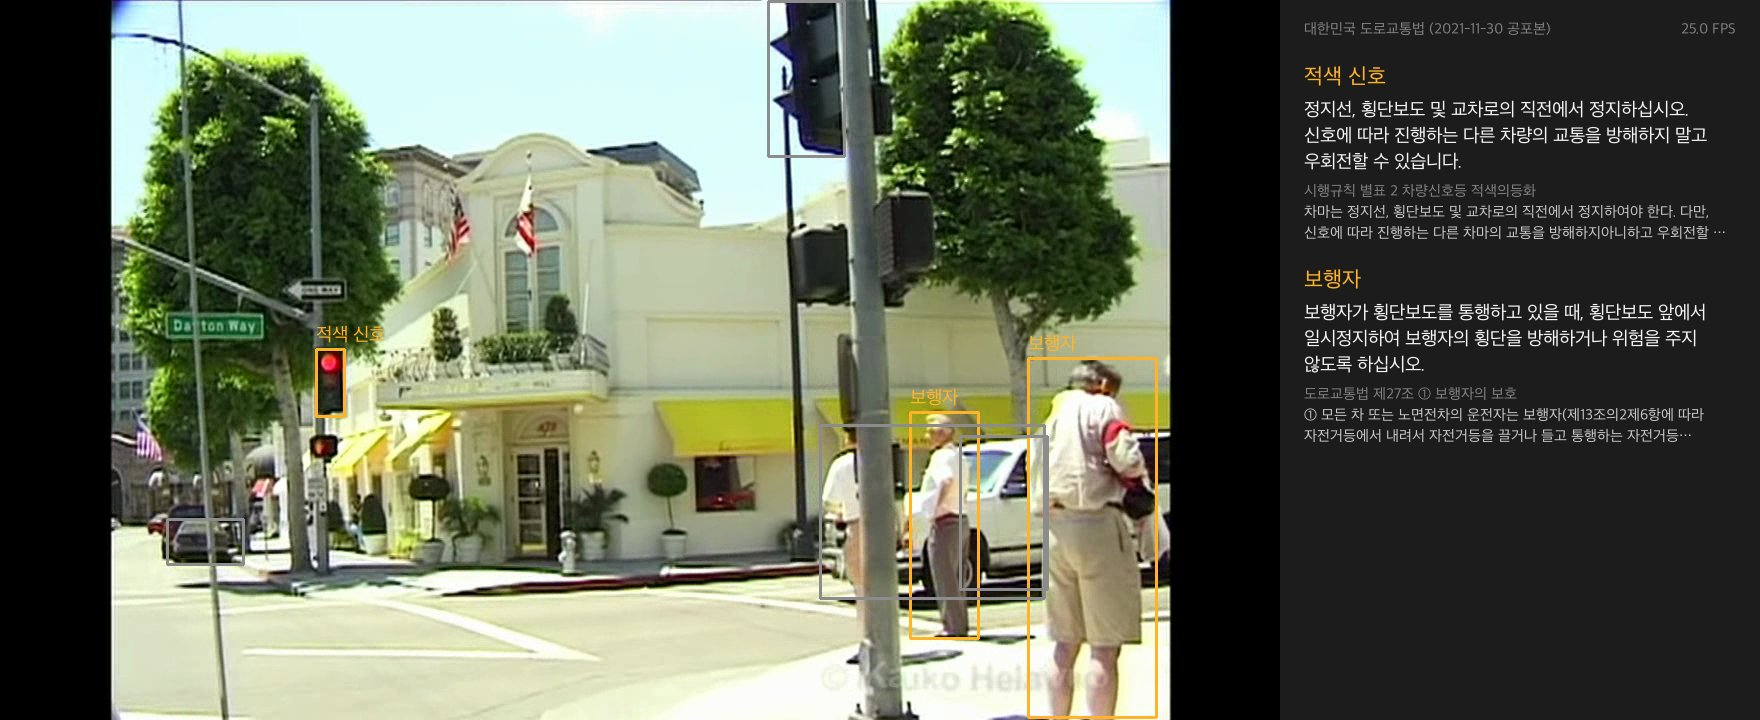
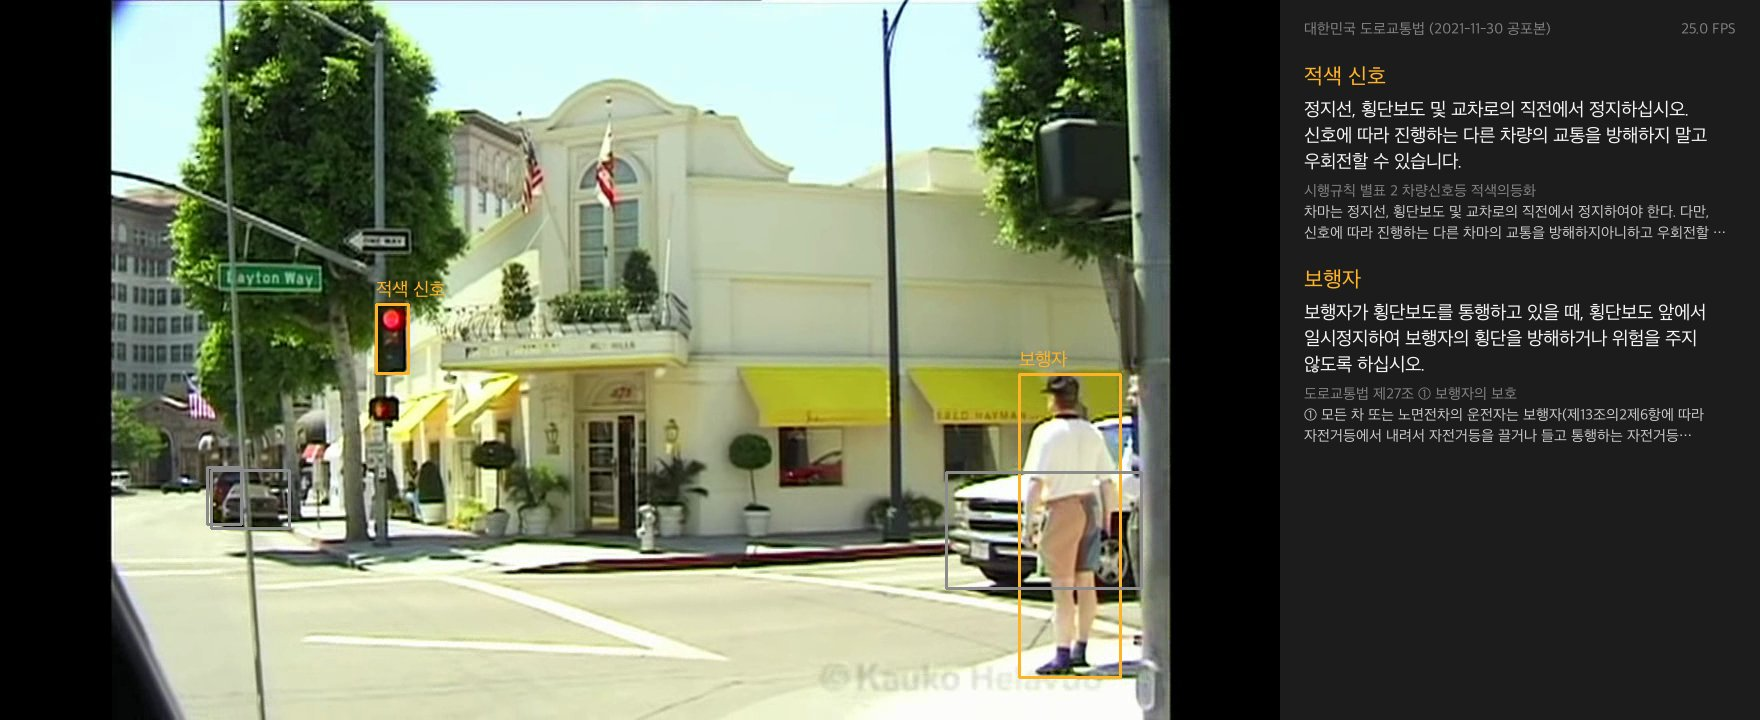
docs: Gemma 비전 맥락 설명과 키프레임 적중률 비교 추가

diff --git a/Project03/README.md b/Project03/README.md
@@ -1,6 +1,6 @@
 # Project03: 주행 영상 기반 도로교통법 검색 HUD
 
-주행 영상에서 YOLO11n으로 차량, 보행자, 신호등을 찾습니다. 찾은 객체를 "적색 신호", "앞차" 같은 장면 상태로 바꿉니다. 장면 상태마다 도로교통법 코퍼스를 BM25로 검색하고, 검색된 조문을 근거로 로컬 Gemma가 한국어 주행 지시문을 만듭니다. 화면 오른쪽에 지시문과 근거 조문을 함께 보여 줍니다.
+주행 영상에서 두 채널로 장면 맥락을 읽습니다. YOLO11n은 매 프레임 차량, 보행자, 신호등을 찾아 "적색 신호", "앞차" 같은 장면 상태로 바꿉니다. 로컬 Gemma 4 비전은 별도 스레드에서 몇 초마다 한 장을 보고 교차로, 횡단보도, 표지판 글자를 읽습니다. 장면 상태와 표지판 글자로 도로교통법 코퍼스를 BM25로 검색하고, 검색된 조문을 근거로 Gemma가 한국어 주행 지시문을 만듭니다. 화면 오른쪽에 지시문과 근거 조문을 함께 보여 줍니다.
 
 모델이 학습한 지식 대신 실제 법령 문서를 근거로 판단을 보여 주는 Retrieval-Augmented 구조입니다. 법령이 개정되거나 다른 나라에서 달리면 모델을 다시 학습하지 않습니다. 코퍼스 파일만 바꾸면 같은 영상에서 그 판, 그 나라의 조문이 나옵니다. 코퍼스는 한국 도로교통법 현행판, 2021년판, 캘리포니아 차량법(California Vehicle Code) 세 개입니다.
 
@@ -18,9 +18,9 @@
 |---|---|---|
 | ![현행 코퍼스의 비벌리힐스 장면](docs/beverly-current.jpg) | ![2021년 코퍼스의 비벌리힐스 장면](docs/beverly-2021.jpg) | ![캘리포니아 코퍼스의 비벌리힐스 장면](docs/beverly-california.jpg) |
 
-보행자 패널은 현행 제27조 ①("통행하려고 하는 때"를 포함), 2021년 제27조 ①, 캘리포니아 차량법 21950조 (a)를 보여 줍니다. 적색 신호 패널은 캘리포니아에서 21453조 (b)("after stopping … may turn right")를 보여 줍니다.
+보행자 패널은 현행 제27조 ①("통행하려고 하는 때"를 포함), 2021년 제27조 ①, 캘리포니아 차량법 21950조 (a)를 보여 줍니다. 적색 신호 패널은 캘리포니아에서 21453조 (b)("after stopping … may turn right")를 보여 줍니다. 하늘색 "교차로"는 Gemma 비전이 두 번 연속 교차로로 판단해 더한 상태입니다. 2021년 코퍼스 화면은 이 시점에 아직 두 번째 판단이 끝나지 않아 교차로가 없습니다.
 
-그림 다섯 장은 원주 시연 영상 25.5초(원본 111.5초)와 비벌리힐스 시연 영상 46초(원본 486초) 프레임을 저장한 것입니다. 화면 오른쪽 위 FPS 값은 저장용 스크립트가 넣은 영상 FPS이며 처리 속도 측정값이 아닙니다.
+그림 다섯 장은 원주 시연 영상 25.5초(원본 111.5초)와 비벌리힐스 시연 영상 47초(원본 487초) 프레임을 저장한 것입니다. 화면 오른쪽 위 FPS 값은 저장용 스크립트가 넣은 영상 FPS이며 처리 속도 측정값이 아닙니다.
 
 ## 파일 구조
 
@@ -30,13 +30,14 @@ Project03/
 ├── detect.py            YOLO 탐지 결과를 장면 상태로 바꿈, 신호등 색 판정(HSV)
 ├── retrieve.py          BM25 검색기와 장면 상태별 검색 문장
 ├── hud.py               탐지 박스, 지시문, 근거 조문 패널 그리기
-├── instruct.py          검색된 조문으로 로컬 Gemma가 주행 지시문 생성
+├── gemma.py             로컬 Gemma: 주행 지시문, 장면 맥락 판단, 표지판 조항 검증, 맥락 스레드
 ├── build_corpus.py      코퍼스 JSON 세 개 생성 (Mac에서 한 번 실행)
 ├── corpus-current.json  현행 도로교통법(항 단위)과 시행규칙 별표 2(신호 종류 단위)
 ├── corpus-2021.json     2022년 1월 개정 직전 공포본으로 만든 같은 구성의 코퍼스
 ├── corpus-california.json  캘리포니아 차량법 제11편 Rules of the Road(항 단위, 영어)
 ├── tests/
-│   └── test_retrieve.py 장면 상태별 정답 조문 검색 평가
+│   ├── test_retrieve.py 장면 상태별 정답 조문 검색, 토큰화
+│   └── test_gemma.py    Gemma 답 줄 읽기
 ├── docs/                README 그림
 ├── data/                캘리포니아 의회 일괄 파일 (git에 올리지 않음)
 └── videos/              주행 영상 (git에 올리지 않음)
@@ -59,10 +60,16 @@ Project03/
 | torch | 2.8.0 | 2.14.1 |
 | llama-cpp-python | 05 노트북 설치본(CUDA 빌드) | 0.3.36(Metal 빌드) |
 
-- Gemma 모델은 05 노트북과 같은 `../src/models/Gemma4/google_gemma-4-E2B-it-Q4_K_M.gguf`(3.46GB, Apache 2.0)를 씁니다. 레포에는 넣지 않습니다. 05 노트북의 `hf_hub_download` 셀로 받거나 아래 명령으로 받습니다.
+- Gemma 모델은 05 노트북과 같은 두 파일을 씁니다. 레포에는 넣지 않습니다. 05 노트북의 `hf_hub_download` 셀로 받거나 아래 명령으로 받습니다.
+  - `../src/models/Gemma4/google_gemma-4-E2B-it-Q4_K_M.gguf`(3.46GB, Apache 2.0)
+  - `../src/models/Gemma4/mmproj-google_gemma-4-E2B-it-f16.gguf`(0.99GB, 비전 모듈)
 
 ```bash
 mkdir -p ../src/models/Gemma4 && curl -L -o ../src/models/Gemma4/google_gemma-4-E2B-it-Q4_K_M.gguf "https://huggingface.co/bartowski/google_gemma-4-E2B-it-GGUF/resolve/main/google_gemma-4-E2B-it-Q4_K_M.gguf"
+```
+
+```bash
+curl -L -o ../src/models/Gemma4/mmproj-google_gemma-4-E2B-it-f16.gguf "https://huggingface.co/bartowski/google_gemma-4-E2B-it-GGUF/resolve/main/mmproj-google_gemma-4-E2B-it-f16.gguf"
 ```
 
 - 한글 글꼴은 Noto CJK(`fonts-noto-cjk`), 나눔고딕, Apple SD Gothic Neo 중 설치된 것을 씁니다.
@@ -109,21 +116,30 @@ Jetson에서는 04 노트북에서 만든 TensorRT 엔진을 넘깁니다.
 python main.py videos/wonju-demo.mp4 --model ../src/models/YOLO/yolo11n_fp16.engine
 ```
 
-`q`를 누르면 종료합니다.
+`q`를 누르면 종료합니다. 비전 라이브러리(`libmtmd`)가 이미지 처리마다 디버그 로그를 표준 오류로 찍습니다. 콘솔을 깨끗하게 보려면 명령 끝에 `2>/dev/null`을 붙입니다.
 
 ### 화면
 
 - 왼쪽: 영상과 탐지 박스. 장면 상태를 만든 박스는 주황색 박스와 상태 이름으로, 나머지 탐지는 회색 박스로 그립니다.
 - 오른쪽 패널 위: 코퍼스 이름과 처리 FPS
 - 오른쪽 패널: 장면 상태마다 상태 이름, Gemma 지시문(최대 3줄), 근거 조문 번호와 제목, 원문 앞부분(최대 2줄). 줄은 공백 위치에서 바꿉니다.
+- 상태 이름 색: 주황색은 YOLO11n에서 온 상태, 하늘색은 Gemma 비전에서 온 상태(교차로, 횡단보도, 표지판)입니다.
+- 패널은 같은 조항을 한 번만 보여 주고, `queries` 순서로 최대 3개까지 보여 줍니다.
 
 ### 처리 과정
 
 시작할 때 한 번:
 
-1. 코퍼스의 상태 7개마다 검색 문장으로 BM25 1위 항목을 찾습니다. 검색 문장이 상태마다 하나로 정해져 있어 결과도 상태마다 하나입니다.
-2. Gemma(`llama-cpp-python`, GPU)가 항목마다 지시문을 만들고 콘솔에 출력합니다. Mac에서 7개에 4.7~5.6초가 걸렸습니다.
-3. 지시문을 다 만들면 Gemma를 메모리에서 해제한 뒤 YOLO11n을 불러옵니다. Jetson 8GB 메모리에 두 모델을 함께 올리지 않기 위해서입니다.
+1. 비전 모듈을 붙인 Gemma(`llama-cpp-python`, GPU)를 불러옵니다. 이미지 토큰은 560개로 고정합니다.
+2. 코퍼스의 상태 9개마다 검색 문장으로 BM25 1위 항목을 찾고, Gemma가 지시문을 만들어 콘솔에 출력합니다. Mac에서 9개에 약 4.4초가 걸렸습니다.
+3. 맥락 스레드를 시작하고 YOLO11n을 불러옵니다. Gemma는 영상 내내 메모리에 남습니다.
+
+맥락 스레드(Gemma 비전, 반복):
+
+1. 메인 루프가 넘긴 최신 프레임을 Gemma 비전에 넣어 교차로·횡단보도의 예/아니오와 표지판 글자를 받습니다. Mac에서 한 장에 약 1.1~2.2초입니다.
+2. 직전 판단과 이번 판단이 같은 항목만 채택합니다.
+3. 새 표지판 글자가 채택되면, 그 글자로 BM25 상위 3개를 찾고 Gemma가 관련 조항 번호 하나 또는 "없음"을 고릅니다. 고른 조항이 있으면 지시문을 만듭니다. 같은 글자는 다시 묻지 않습니다.
+4. 결과를 새 사전으로 만들어 한 번에 넘깁니다.
 
 프레임마다:
 
@@ -134,7 +150,7 @@ python main.py videos/wonju-demo.mp4 --model ../src/models/YOLO/yolo11n_fp16.eng
    - 승용차, 트럭: 화면의 3% 이상이고 화면 가운데 3분의 1에 있을 때 앞차가 됩니다.
    - 화면 아래 20%에 중심이 있는 박스는 버립니다. 이 영역에는 보닛과 유리창 스티커가 있어 정지 표지 오탐이 생깁니다.
 3. 상태마다 5프레임 연속 탐지되면 확정하고, 확정이 끊긴 뒤에도 2초 동안 패널에 남깁니다.
-4. 화면 상태에 해당하는, 미리 만든 지시문과 근거 항목을 패널에 그립니다. 루프 안에서는 검색과 Gemma 호출을 하지 않습니다.
+4. YOLO 상태와 맥락 스레드가 마지막으로 채택한 상태를 합쳐 패널에 그립니다. 메인 루프는 Gemma를 직접 부르지 않습니다.
 5. 처리가 영상보다 빠르면 남는 시간만큼 기다려 원래 속도로 재생합니다.
 
 ### 테스트와 평가
@@ -143,9 +159,11 @@ python main.py videos/wonju-demo.mp4 --model ../src/models/YOLO/yolo11n_fp16.eng
 python -m unittest discover -s tests -t .
 ```
 
-- 세 코퍼스 모두에서 장면 상태 7개(적색·황색·녹색 신호, 보행자, 자전거, 앞차, 정지 표지)의 BM25 1위가 정답 항목과 같은지 확인합니다. 캘리포니아 정답은 21453(b), 21452(a), 21451(a), 21950(a), 21760(c), 21703, 22450(a)입니다.
+- 세 코퍼스 모두에서 장면 상태 9개(적색·황색·녹색 신호, 보행자, 횡단보도, 교차로, 자전거, 앞차, 정지 표지)의 BM25 1위가 정답 항목과 같은지 확인합니다. 캘리포니아 정답은 21453(b), 21452(a), 21451(a), 21950(a), 21950(c), 21800(a), 21760(c), 21703, 22450(a)입니다.
+- 토큰화가 영어 낱말을 낱말 그대로, 한국어를 바이그램으로 나누는지 확인합니다. Gemma의 "항목: 값" 답을 사전으로 읽는지 확인합니다.
 - 적색 신호(별표 2)와 보행자(제27조 ①)의 1위 본문이 두 판에서 다른지 확인합니다.
-- 2026-11-02 Mac에서 2개 테스트가 모두 통과했습니다. Mac(Apple Silicon)의 프레임당 처리 시간은 지시문 패널을 넣은 뒤 약 26ms입니다.
+- 2026-11-02 Mac에서 5개 테스트가 모두 통과했습니다. 맥락 스레드가 도는 동안 메인 루프의 프레임당 처리 시간은 평균 29~34ms였습니다. 첫 프레임은 YOLO 준비로 약 1.9초가 걸립니다.
+- 스레드가 Gemma 비전을 돌리는 동안 메인 스레드의 YOLO 처리 시간은 평균 18.5ms, 최대 43.8ms였습니다. `llama-cpp-python`이 추론 중 GIL을 놓으므로 영상 루프가 멈추지 않습니다.
 - 비벌리힐스 시연 영상에서 정지 표지(2초), 앞차, 보행자(12.1초, 44.3초), 황색 신호(33.8초), 적색 신호(44.6초), 녹색 신호(49.3초)가 패널에 나왔습니다.
 
 ## 로컬 Gemma 주행 지시문
@@ -189,7 +207,37 @@ python -m unittest discover -s tests -t .
 | 캘리포니아 | 앞차 | 앞차를 합리적이고 신중하게, 해당 차량의 속도와 주변 교통 상황, 도로 상태를 고려하여 안전거리를 유지하십시오. | 일치 | |
 | 캘리포니아 | 정지 표지 | 정지 표지 앞에 정지선이 있으면 그 선에 멈추십시오. 정지선이 없으면 교차로 진입 전 가까운 쪽 횡단보도 앞에 멈추십시오. | 일치 | |
 
-합계: 일치 14개, 일부 누락 6개, 불일치 1개. 한국어 조항은 14개 중 일치 11개, 영어 조항은 7개 중 일치 3개입니다. 개정 전후 차이(적색 신호의 우회전 전 정지, 보행자의 "통행하려고 하는 때")는 두 판의 지시문에 모두 맞게 드러났습니다. 불일치 1개는 영어 수치 조건(three feet)을 한국어로 옮기며 부정어를 잃은 경우입니다. 그래서 지시문 아래에 원문을 항상 함께 보여 줍니다.
+| 현행 | 횡단보도 | 횡단보도 앞에서 일시정지하여 보행자가 안전하게 횡단할 수 있도록 하십시오. | 일부 누락 | "통행하고 있거나 통행하려고 하는 때"라는 조건이 빠져 2021년판 지시문과 같아짐 |
+| 현행 | 교차로 | 우회전을 하려는 경우, 미리 도로의 우측 가장자리를 서행하면서 우회전하십시오. 우회전하는 차의 운전자는 신호에 따라 정지하거나 진행하는 보행자 또는 자전거 등에 주의해야 합니다. | 일치 | |
+| 2021년 | 횡단보도 | 현행과 같음 | 일부 누락 | "통행하고 있을 때"라는 조건이 빠짐 |
+| 2021년 | 교차로 | 현행과 같음 | 일치 | |
+| 캘리포니아 | 횡단보도 | 횡단보도에 접근하는 보행자를 위해 모든 주의를 기울이고 차량 속도를 줄이거나 필요한 기타 조치를 취하여 보행자의 안전을 확보하십시오. | 불일치 | 원문의 조건은 "횡단보도 안의 보행자에게 차가 다가갈 때"인데 "횡단보도에 다가가는 보행자"로 바뀜 |
+| 캘리포니아 | 교차로 | 다른 고속도로에서 교차로로 진입한 차량에 양보하십시오. | 불일치 | 캘리포니아 법의 "highway"는 공공 도로 전체를 뜻하는데 "고속도로"로 옮김 |
+
+합계(4단계에서 상태 2개를 더한 27개): 일치 16개, 일부 누락 8개, 불일치 3개. 한국어 조항은 18개 중 일치 13개, 영어 조항은 9개 중 일치 3개입니다. 개정 전후 차이(적색 신호의 우회전 전 정지, 보행자의 "통행하려고 하는 때")는 두 판의 지시문에 모두 맞게 드러났습니다. 불일치 1개는 영어 수치 조건(three feet)을 한국어로 옮기며 부정어를 잃은 경우입니다. 그래서 지시문 아래에 원문을 항상 함께 보여 줍니다.
+
+## 맥락 채널 비교 (키프레임 13장)
+
+YOLO 상태만 쓰는 방식(3단계까지)은 검색 문장이 상태마다 고정이라 한 코퍼스에서 조문이 7개만 나왔습니다. 4단계에서 Gemma 비전 맥락을 더한 효과를 원주 7장, 비벌리힐스 6장의 키프레임으로 비교했습니다. 정답 조문은 사람이 화면을 보고 정했습니다. 화면만으로 정답을 정하기 어려운 2장(bev-240 좁은 사유 도로, bev-474 꺼진 신호등과 도로 이름 표지)은 빼고 11장으로 셉니다. 하이브리드 결과는 Gemma 판단 한 번의 결과이며 두 번 연속 일치 규칙은 적용하지 않았습니다.
+
+| 키프레임 | 장면 | 정답 조문 (한국 현행) | YOLO만 | 하이브리드 |
+|---|---|---|---|---|
+| bev-033 | 4-WAY STOP 교차로 | 제31조 ②, 제26조 ① | 제31조 ② | 제31조 ② |
+| bev-301 | STOP 표지가 있는 오르막 길 | 제31조 ② | 제31조 ② | 제31조 ② |
+| bev-452 | 주택가 길가의 보행자 | 제27조 ⑥ | 제27조 ①(정답 아님) | 제27조 ①(정답 아님) |
+| bev-486 | 횡단보도 앞 보행자, 적색 신호 교차로 | 별표 2 적색, 제27조 ①, 제25조 ① | 별표 2 적색, 제27조 ① | 별표 2 적색, 제27조 ①, 제25조 ① |
+| won-020 | 앞차, 중앙선이 있는 국도 | 제19조 ①, 제13조 ③ | 제19조 ① | 제19조 ①, 제25조 ①(오답) |
+| won-045 | 차 없는 국도 | 제13조 ③ | 없음 | 없음 |
+| won-075 | 옆 차로 차, 국도 | 제13조 ③ | 없음 | 없음 |
+| won-090 | 적색 신호 교차로 | 별표 2 적색, 제25조 ① | 별표 2 적색 | 별표 2 적색, 제25조 ① |
+| won-110.5 | 적색 신호 교차로, 앞차 | 별표 2 적색, 제19조 ①, 제25조 ① | 별표 2 적색, 제19조 ① | 별표 2 적색, 제19조 ①, 제25조 ① |
+| won-142 | 자동차전용도로 | 제13조 ③ | 없음 | 없음 |
+| won-170 | 터널 진입 | 제22조 ③(터널 안 앞지르기 금지), 제37조 ①(터널 안 등화) | 없음 | 없음 |
+
+- 정답 조문 19개 중 YOLO만은 8개, 하이브리드는 11개를 찾았습니다. 하이브리드는 오답 1개(won-020을 교차로로 판단)를 더했습니다.
+- 늘어난 3개는 모두 교차로 장면의 제25조 ①입니다. 표지판 글자는 이 키프레임들에서 한국 코퍼스 조항으로 이어지지 않았습니다. 영어 표지판이 많고, 원주 표지판은 지명("Wonju IC")이었기 때문입니다.
+- 두 방식 모두 도로 종류(중앙선, 자동차전용도로)와 터널 맥락을 찾지 못했습니다. Gemma 비전이 원주 국도 7장을 모두 "고속도로"라고 답하고 터널을 놓쳐, 이 항목은 맥락 채널에서 뺐습니다.
+- 캘리포니아 코퍼스에서는 표지판 검증이 "STOP"(시연 영상 5.4초)과 "PUBLIC PARKING" 표지를 조항으로 이었습니다. "Dalton Way", "CARMELITA" 같은 도로 이름은 모두 "없음"으로 걸렀습니다.
 
 ## 법령 코퍼스
 
@@ -240,11 +288,13 @@ python build_corpus.py <국가법령정보 Open API 인증키(OC)> data/pubinfo_
 - 원주 영상에는 보행자 장면이 없습니다. 보행자 장면은 비벌리힐스 영상으로 확인합니다.
 - 비벌리힐스 영상은 블랙박스가 아니라 손으로 든 카메라로 찍은 영상입니다. 앞차 판정(화면 가운데 3분의 1)과 화면 아래 20% 제외 규칙은 블랙박스 화면을 기준으로 정한 값입니다.
 - 검색 문장은 사람이 법령 용어로 썼습니다. 캘리포니아 정지 표지 문장은 처음 쓴 문장("stop sign at entrance to intersection …")으로는 21457조(점멸 적색 신호)가 1위였고, 조문 용어("approaching a stop sign …")로 고쳐 쓴 뒤 22450조 (a)가 1위가 되었습니다. 영어를 단어 단위로 나눠 시험했을 때는 처음 문장으로도 7개 모두 1위였습니다. 문자 바이그램은 영어에서 낱말 경계를 잃어 한국어보다 검색 문장에 민감합니다.
-- COCO 모델은 횡단보도, 차선, 한국 교통안전표지를 찾지 못합니다. 장면 상태는 6개 클래스와 신호등 색으로 만들 수 있는 7개뿐입니다.
+- COCO 모델은 횡단보도, 차선, 한국 교통안전표지를 찾지 못합니다. Gemma 비전으로 교차로, 횡단보도, 표지판 글자를 더했지만 도로 종류와 터널은 믿을 수 없어 쓰지 않습니다. 키프레임 비교에서 정답 조문 19개 중 11개를 찾았습니다.
+- Gemma 비전의 판단 결과는 스레드 호출 시점에 따라 실행마다 조금씩 다릅니다. 같은 영상에서도 "교차로"가 나오는 시각이 몇백 밀리초씩 달라지고, 한 번은 나오지 않기도 합니다.
+- 표지판 글자는 두 번 연속 똑같이 읽혀야 채택합니다. 카메라가 움직이면 같은 표지판도 글자가 조금씩 다르게 읽혀 채택되지 않는 경우가 있습니다.
 - 별표 2는 선 문자 표에서 글자를 읽습니다. 칸 안 줄바꿈이 낱말 중간에서 일어나 일부 띄어쓰기(`교통을방해하지`)는 복원하지 못합니다.
-- 패널은 장면 상태 3개까지 화면 안에 들어갑니다. 4개 이상이면 아래 항목이 잘립니다.
-- Jetson 실행, TensorRT 엔진 사용, mp4 시연 영상 읽기, Gemma CUDA 빌드의 시작 시간과 메모리는 아직 확인하지 않았습니다. CUDA 빌드는 Metal 빌드와 지시문 글자가 다를 수 있어 Jetson에서 검토 표를 다시 확인해야 합니다.
-- Gemma 지시문 21개 중 1개가 원문과 반대 뜻이었고 6개는 조건이 빠졌습니다. 지시문만 믿고 행동하면 안 되고, 원문을 함께 봐야 합니다.
+- 패널은 `queries` 순서로 최대 3개만 보여 줍니다. 상태가 4개 이상이면 순서가 뒤인 상태(표지판 포함)는 보이지 않습니다.
+- Jetson 실행, TensorRT 엔진 사용, mp4 시연 영상 읽기, Gemma CUDA 빌드의 시작 시간, 비전 호출 시간, 메모리(Gemma 3.5GB + 비전 모듈 1GB + YOLO 상주)는 아직 확인하지 않았습니다. CUDA 빌드는 Metal 빌드와 지시문 글자가 다를 수 있어 Jetson에서 검토 표를 다시 확인해야 합니다.
+- Gemma 지시문 27개 중 3개가 원문과 다른 뜻이었고 8개는 조건이 빠졌습니다. 지시문만 믿고 행동하면 안 되고, 원문을 함께 봐야 합니다.
 - 패널은 확정이 끊긴 상태를 2초 동안 유지합니다. 그래서 장면이 바뀐 직후에는 이미 지나간 객체의 조문이 잠시 남습니다.
 - `../src/models/YOLO/yolo11n.pt`는 레포에 넣지 않습니다. 04 노트북 순서대로 준비합니다.
 
@@ -256,5 +306,6 @@ python build_corpus.py <국가법령정보 Open API 인증키(OC)> data/pubinfo_
 | 04 노트북 YOLO 추론과 클래스 선택 | `main.py`: `model.predict(source=frame, conf, iou, verbose=False, classes=CLASSES)` |
 | 04 노트북 FPS 측정 | `main.py`: `time.perf_counter()`와 지수 이동 평균(0.9, 0.1) |
 | 04 노트북 TensorRT 엔진 | Jetson 실행 시 `--model ../src/models/YOLO/yolo11n_fp16.engine` |
-| 05 노트북 로컬 Gemma 로드와 생성 | `instruct.write_instructions`: `Llama(n_gpu_layers=-1, n_ctx=2048, n_batch=32, n_ubatch=32)`, `create_chat_completion` |
-| 05 노트북 Prompt Engineering의 `role` | `instruct.py`: system 메시지로 근거 제한 규칙, user 메시지로 장면과 조항 |
+| 05 노트북 로컬 Gemma 로드와 생성 | `gemma.load_gemma`, `gemma.ask`: `Llama(n_gpu_layers=-1, …)`, `create_chat_completion`. 이미지 토큰 때문에 `n_ctx=4096`, `n_batch=512`로 늘림 |
+| 05 노트북 Prompt Engineering의 `role` | `gemma.py`: system 메시지로 근거 제한 규칙과 검증 규칙, user 메시지로 장면과 조항 |
+| 05 노트북 비전 모듈(mmproj), 8회차 멀티모달 | `gemma.read_scene`: `Gemma4ChatHandler`로 프레임 이미지를 넣어 장면 맥락 판단 |
